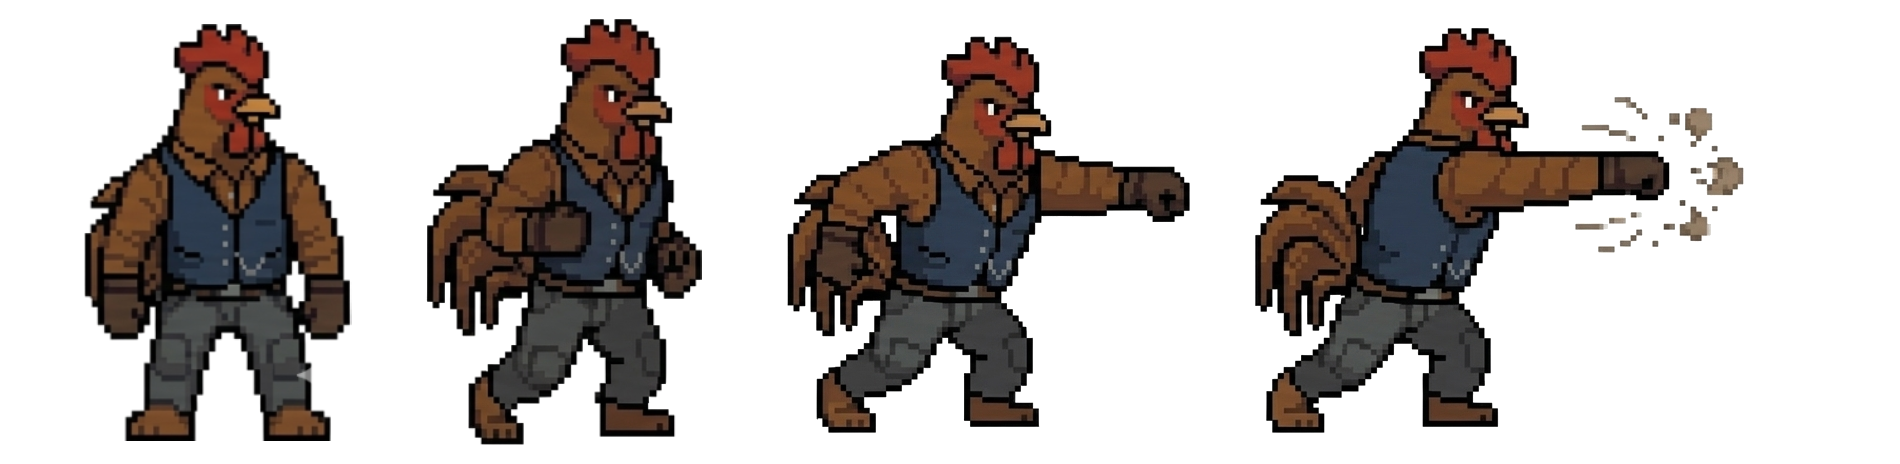
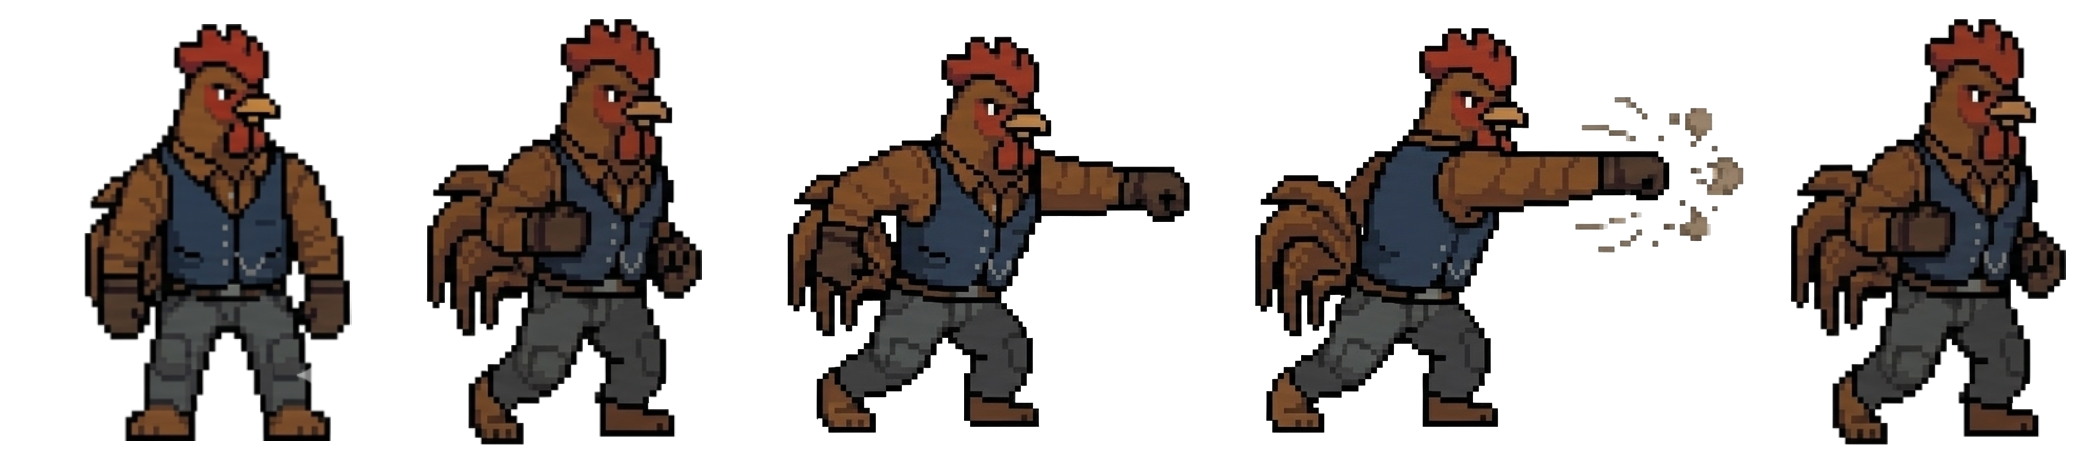
upd rooster sprites

diff --git a/screens/main_menu/components/characters/characters.cpp b/screens/main_menu/components/characters/characters.cpp
@@ -111,7 +111,7 @@ std::unique_ptr<std::vector<Character>> init_characters()
 
     specs specs2 = specs({._x_speed_max = 1300,
                           ._weight_factor = 2,
-                          ._height_px = 80,
+                          ._height_px = 100,
                           ._hp_factor = 1.2,
                           ._stamina_recovery_factor = 1,
                           ._hand_recovery_sec = 0.5,
@@ -159,6 +159,7 @@ std::unique_ptr<std::vector<Character>> init_characters()
     hand_kick_texture_frames.push_back(sf::IntRect({427, 19}, {275, 445}));
     hand_kick_texture_frames.push_back(sf::IntRect({788, 19}, {401, 445}));
     hand_kick_texture_frames.push_back(sf::IntRect({1255, 19}, {489, 445}));
+    hand_kick_texture_frames.push_back(sf::IntRect({1786, 19}, {275, 445}));
 
     if (!leg_kick_texture.loadFromFile("screens/main_menu/components/characters/jojo/leg_kick_animation.png"))
     {
@@ -171,6 +172,18 @@ std::unique_ptr<std::vector<Character>> init_characters()
     leg_kick_texture_frames.push_back(sf::IntRect({758, 22}, {443, 446}));
     leg_kick_texture_frames.push_back(sf::IntRect({1233, 22}, {261, 446}));
 
+    if (!block_texture.loadFromFile("screens/main_menu/components/characters/jojo/block_animation.png"))
+    {
+        throw std::runtime_error("Jojo block animation load failed");
+    }
+
+    block_texture_frames.clear();
+    block_texture_frames.push_back(sf::IntRect({14, 14}, {262, 427}));
+    block_texture_frames.push_back(sf::IntRect({350, 14}, {289, 427}));
+    block_texture_frames.push_back(sf::IntRect({704, 14}, {304, 427}));
+    block_texture_frames.push_back(sf::IntRect({1095, 14}, {316, 427}));
+    block_texture_frames.push_back(sf::IntRect({1487, 14}, {321, 427}));
+
     characters->emplace_back("Jojo",
                              std::move(avatar2),
                              specs2,
@@ -181,7 +194,9 @@ std::unique_ptr<std::vector<Character>> init_characters()
                              hand_kick_texture,
                              hand_kick_texture_frames,
                              leg_kick_texture,
-                             leg_kick_texture_frames);
+                             leg_kick_texture_frames,
+                             block_texture,
+                             block_texture_frames);
 
     sf::Texture avatar3;
     if (!avatar3.loadFromFile("screens/main_menu/components/characters/jola/avatar3.png"))
